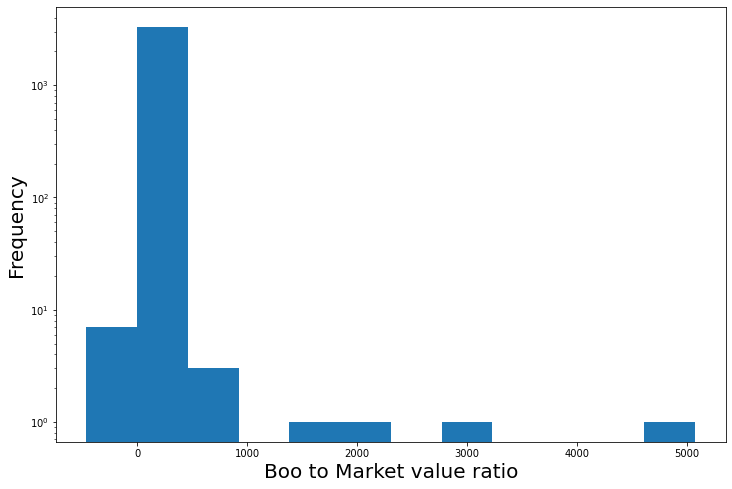
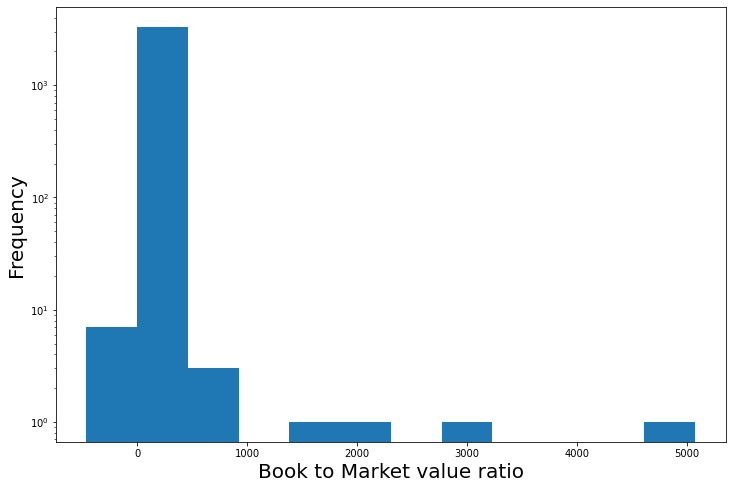
Hid unnecessary output

Changed region(s): [[0.3306, 0.9509, 0.7213, 0.9816]]

diff --git a/Piotroski_F-Score_Trading_Strategy_Implementation.md b/Piotroski_F-Score_Trading_Strategy_Implementation.md
@@ -273,7 +273,7 @@ i=0
 for symbol in stocks:
     i+=1
     try:
-        print(symbol)
+        #print(symbol)
         Total_Assets_cur_year = get_balance_sheet_data(symbol,'2020')['totalAssets']
         Total_Liabilities_cur_year = get_balance_sheet_data(symbol,'2020')['totalLiabilities']
         Book_Value = Total_Assets_cur_year-Total_Liabilities_cur_year
@@ -6071,7 +6071,7 @@ B2M_values = list(B2M_dict.values())
 #px.histogram(x=B2M_dict.values(),log_y=True, nbins=12, labels={'x':'Book to Market value ratio', 'y':'Count'})
 fig, ax = plt.subplots(figsize=(12,8))
 ax.hist(B2M_values,bins=12, log=True)
-ax.set_xlabel('Boo to Market value ratio', fontsize=20)
+ax.set_xlabel('Book to Market value ratio', fontsize=20)
 ax.set_ylabel('Frequency', fontsize=20)
 ```
 
@@ -6135,7 +6135,7 @@ columns = ['symbol', 'F_ROA', 'F_CFO', 'F_delta_ROA', 'F_ACCRUAL', 'F_delta_LEVE
 F_Score_df = pd.DataFrame(columns=columns)
 
 for symbol in list(high_B2M_dict.keys()):
-    print(symbol)
+    #print(symbol)
     
     try:
         # Balance Sheet Data
